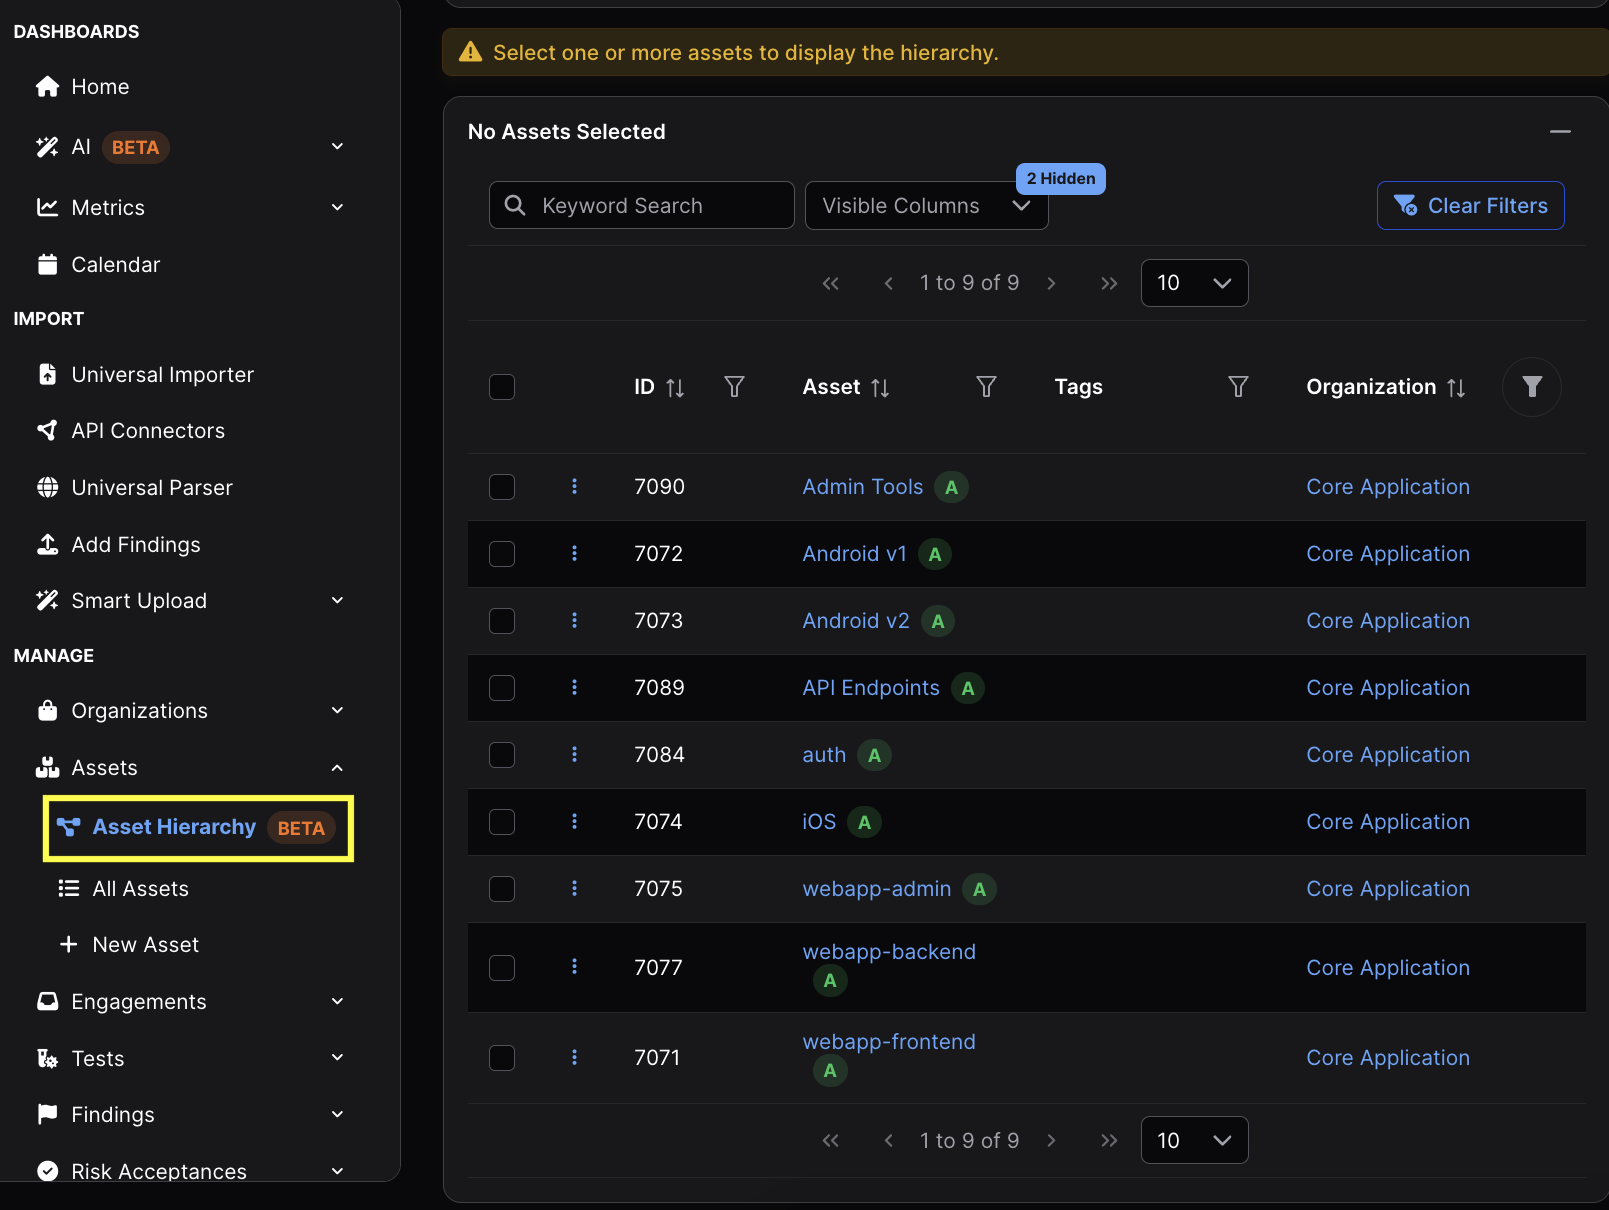
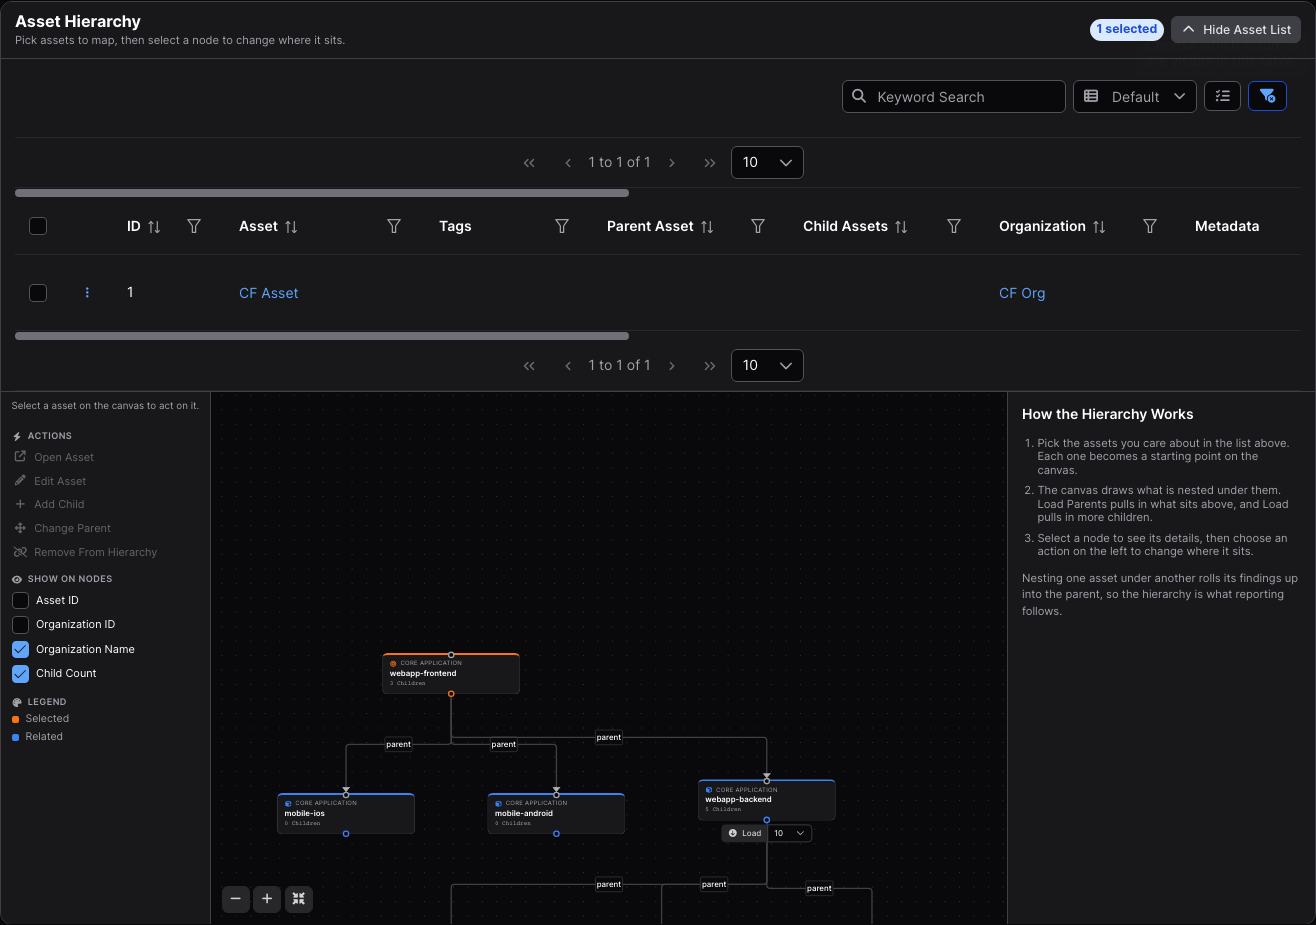
docs(asset hierarchy): describe the rebuilt hierarchy page (#15746)
The Asset Hierarchy page has been rebuilt, and the guide describes the version
before it: a table you switched away from to see the diagram, action buttons
inside each node, and a "Load More" control that no longer goes by that name.

Rewritten to match what is there now. The list and the diagram are one page
rather than two panes, so selecting Assets in the list draws them immediately.
What you can do with a selected Asset is listed in a panel beside the diagram
instead of appearing as icons inside the node, and each of those actions opens
beside the diagram rather than covering it. Loading more of the hierarchy is
now two named controls, Load Parents and Load, so they are described that way.

Also documents two things the page could always do but the guide never
mentioned: the node colours distinguish the Assets you selected from the ones
loaded around them, and the same panel chooses which details each node shows.

The four screenshots are replaced. asset_hierarchy_diagram.png is shared with
the Pro features overview, which describes the diagram in general terms and
needs no text change.

Translations of this page are left for the usual translation pass.

diff --git a/docs/content/asset_modelling/PRO_hierarchy/asset_hierarchy.md b/docs/content/asset_modelling/PRO_hierarchy/asset_hierarchy.md
@@ -110,33 +110,43 @@ You can visualize the structure of Assets in DefectDojo, and change relationship
 
 ![image](images/asset_hierarchy.png)
 
-Opening Asset Hierarchy will display a table of all of your Assets which can be filtered.  Selecting one or more Assets from this table will render a hierarchy diagram.
+The page has three parts: a list of your Assets across the top, the diagram below it, and a panel on either side of the diagram. Selecting one or more Assets in the list draws them, and each Asset you select becomes a starting point that the diagram builds around. The list can be filtered, and once you have the Assets you want you can collapse it with the **Hide Asset List** button to give the diagram the whole page.
 
 ![image](images/asset_hierarchy_diagram.png)
 
 ### Diagram navigation
 
-The icons at the top left of the hierarchy diagram allow you to zoom in and out.  Clicking and dragging in this diagram allows you to scroll through the diagram.
+The buttons at the bottom left of the diagram zoom in and out, and fit the whole diagram in view. Clicking and dragging the background moves the diagram, and each Asset can be dragged for display purposes.
 
-Each Asset is rendered as a single node in this diagram, which can be moved around for display purposes.
+Assets are connected by labelled arrows running from parent to child, which represent the kind of relationship each node has to the other. Currently, `parent` is the only label supported.
 
-Assets are connected together using labelled paths, which represent the kind of relationship each note has to one another.  Currently, `parent` is the only label supported.
+Each node is coloured by where it came from: one colour for the Assets you selected in the list, another for Assets the diagram loaded because they are related to your selection. The **Legend** in the left panel names both.
 
-### Exploring Asset nodes
+The left panel also chooses what the nodes display. **Asset ID**, **Organization ID**, **Organization Name** and **Child Count** can each be turned on or off.
 
-Each Asset node can be interacted with by clicking on the blue buttons.  These buttons appear only when an Asset node is selected (by clicking on the node).
+### Acting on an Asset
+
+Clicking an Asset's node selects it, which fills both panels: the left panel lists what you can do with that Asset, and the right panel describes it, including its Organization, its relationship to its parent, how many children it has, and links to its metrics.
 
 ![image](images/asset_hierarchy_node.png)
 
-* 👁 (eyeball icon) will take you directly to the corresponding Asset View (formerly known as the Product View).
-* ✏ (pencil icon) will open a modal with the Edit Asset form (formerly known as the Edit Product form)
-* ➕ (plus icon) will allow you to add a new Child Asset to this Asset.  The Asset does not need to be currently visible in the diagram, but must be part of the same Organization.
-* ✥ (four-arrows icon) allows you to change the Parent Asset of the currently selected Asset.
-* 🗑 (trash can icon) allows you to remove an Asset's parent relationship. This icon only appears if an Asset already has a Parent.
+* **Open Asset** takes you to the corresponding Asset View (formerly known as the Product View).
+* **Edit Asset** opens the Edit Asset form (formerly known as the Edit Product form).
+* **Add Child** nests another Asset under this one. You can choose an Asset that is not currently in the diagram, or create a new one, but either way it must be part of the same Organization.
+* **Change Parent** moves the selected Asset underneath a different parent.
+* **Remove From Hierarchy** detaches the Asset from its parent, and asks whether that Asset's own children should be left without a parent or moved up to the parent you are detaching from. It is only available when the Asset has a parent.
 
-If your diagram displays an Asset with un-selected Parent Assets, you can click the Load More button to populate the diagram with the Parent Asset (as well as that Parent Asset's children).
+Each of these opens in the right panel, so the diagram stays visible while you work on it. An action you cannot use is shown greyed out, and hovering it explains why: changing relationships needs edit permission on the Asset itself as well as permission to edit the hierarchy.
+
+### Loading more of the hierarchy
+
+The diagram loads part of the hierarchy at a time, so a large one stays readable.
+
+Where an Asset's parent has not been loaded, a **Load Parents** button appears above it, which adds that parent along with the parent's other children.
 
 ![image](images/assets_loadmore.png)
+
+Where an Asset has more children than the diagram is currently showing, a **Load** button appears below it, together with a choice of how many to add at a time.
 
 ## Notes
 
